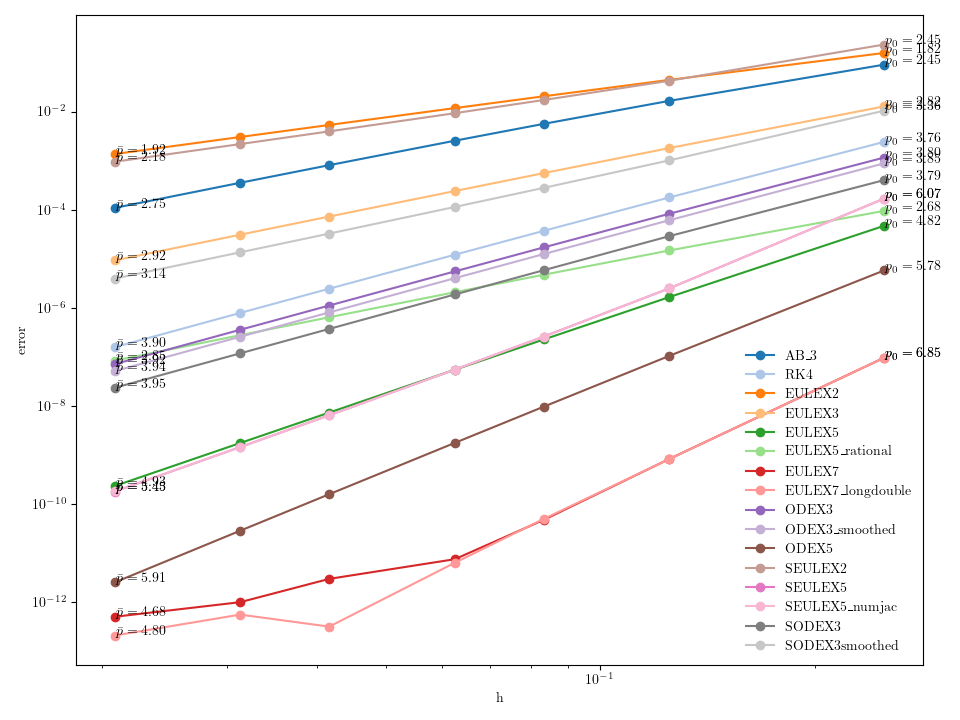
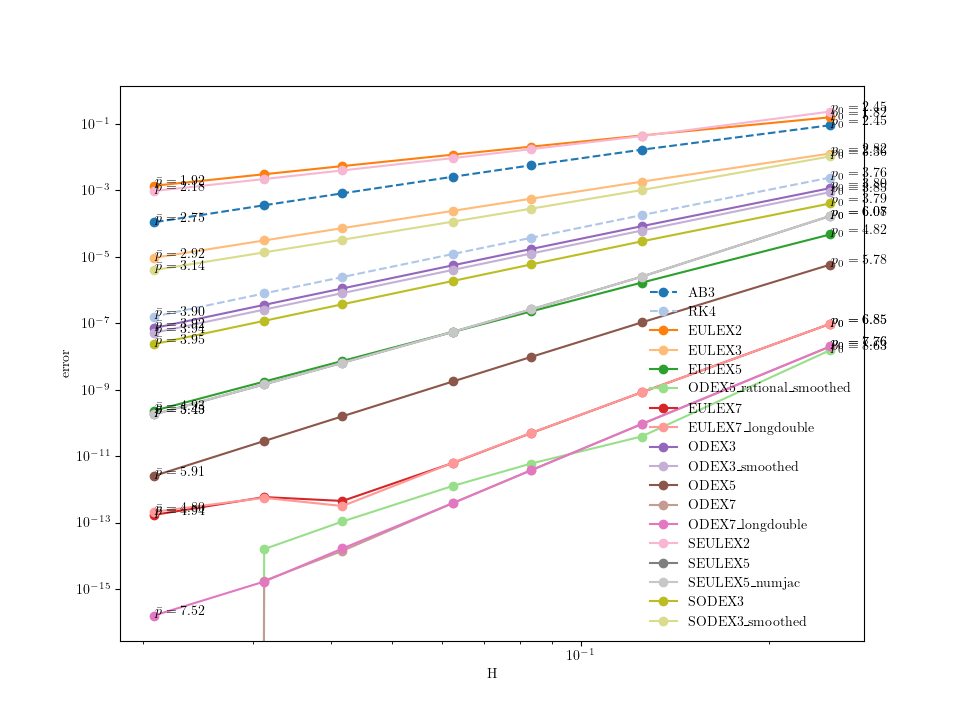
replaced x_n completely with ddelta_x_n

diff --git a/src/solvers/Extrapolation_Scheme.py b/src/solvers/Extrapolation_Scheme.py
@@ -319,7 +319,7 @@ class ExtrapolationSolver(ABC):
             )
 
         return (
-            x_pred,
+            x_curr + T_table_k[k_curr],
             state,
             k_curr,
             step_info,
@@ -505,11 +505,9 @@ class EulerExtrapolation(ExtrapolationSolver):
         delta_t = (t_max - t0) / n_steps
 
         ddelta_x = np.zeros_like(x0)
-        x_n = x0
         t_n = t0
         for _ in range(n_steps):
-            ddelta_x += delta_t * self.ode_fun(t_n, x_n)
-            x_n = x0 + ddelta_x
+            ddelta_x += delta_t * self.ode_fun(t_n, x0 + ddelta_x)
             t_n += delta_t
         return ddelta_x, False
 
@@ -566,18 +564,15 @@ class EulerExtrapolationMass(ExtrapolationSolver):
         """Forward Euler scheme"""
         delta_t = (t_max - t0) / n_steps
 
-        x_n = x0
         t_n = t0
         ddelta_x = np.zeros_like(x0)
         for _ in range(n_steps):
             ddelta_x += lu_solve(
                 self.lu_and_piv_mass,
-                delta_t * self.ode_fun(t_n, x_n),
+                delta_t * self.ode_fun(t_n, x0 + ddelta_x),
                 overwrite_b=True,
                 check_finite=False,
             )
-
-            x_n = x0 + ddelta_x
             t_n += delta_t
         return ddelta_x, False
 
@@ -633,17 +628,18 @@ class ModMidpointExtrapolation(ExtrapolationSolver):
         ddelta_x_prev = np.zeros_like(x0)
         ddelta_x_n = delta_t * self.ode_fun(t0, x0)  # start with an Euler step
         t_n = t0 + delta_t
-        x_n = x0 + ddelta_x_n
         for _ in range(1, n_steps):
-            ddelta_x_n = ddelta_x_prev + 2 * delta_t * self.ode_fun(t_n, x_n)
-            ddelta_x_prev = (
-                x_n - x0
-            )  # this is still stored in x_n, so no additioial swapping variable is required
-            x_n = x0 + ddelta_x_n
+            swaptemp_ddelta_x_n = ddelta_x_n.copy()
+            ddelta_x_n = ddelta_x_prev + 2 * delta_t * self.ode_fun(
+                t_n, x0 + ddelta_x_n
+            )
+            ddelta_x_prev = swaptemp_ddelta_x_n
             t_n += delta_t
         if self.use_smoothing:
             ddelta_x_n = 0.5 * (
-                ddelta_x_n + ddelta_x_prev + delta_t * self.ode_fun(t_n, x_n)
+                ddelta_x_n
+                + ddelta_x_prev
+                + delta_t * self.ode_fun(t_n, x0 + ddelta_x_n)
             )
         return ddelta_x_n, False
 
@@ -710,25 +706,23 @@ class ModMidpointExtrapolationMass(ExtrapolationSolver):
         delta_t = (t_max - t0) / n_steps
 
         ddelta_x_prev = np.zeros_like(x0)
-        ddelta_x_n = lu_solve(
+        ddelta_x_n: NDArray[np.floating] = lu_solve(
             self.lu_and_piv_mass,
-            delta_t * self.ode_fun(x0),
+            delta_t * self.ode_fun(t0, x0),
             overwrite_b=True,
             check_finite=False,
         )  # start with an Euler step
         t_n = t0 + delta_t
-        x_n = x0 + ddelta_x_n
         for _ in range(1, n_steps):
+            temp_ddelta_x_n = ddelta_x_n
             ddelta_x_n = ddelta_x_prev + lu_solve(
                 self.lu_and_piv_mass,
-                2 * delta_t * self.ode_fun(t_n, x_n),
+                2 * delta_t * self.ode_fun(t_n, x0 + ddelta_x_n),
                 overwrite_b=True,
                 check_finite=False,
             )
-            ddelta_x_prev = (
-                x_n - x0
-            )  # this is still stored in x_n, so no additioial swapping variable is required
-            x_n = x0 + ddelta_x_n
+            ddelta_x_prev = temp_ddelta_x_n
+
             t_n += delta_t
         if self.use_smoothing:
             ddelta_x_n = 0.5 * (
@@ -736,7 +730,7 @@ class ModMidpointExtrapolationMass(ExtrapolationSolver):
                 + ddelta_x_prev
                 + lu_solve(
                     self.lu_and_piv_mass,
-                    delta_t * self.ode_fun(t_n, x_n),
+                    delta_t * self.ode_fun(t_n, x0 + ddelta_x_n),
                     overwrite_b=True,
                     check_finite=False,
                 )
@@ -902,17 +896,15 @@ class LimplicitEulerExtrapolation(ExtrapolationSolver):
         )
 
         ddelta_x = np.zeros_like(x0)
-        x_n = x0
         t_n = t0
         for n in range(n_steps):
             rhs = delta_t * self.ode_fun(
-                t_n + delta_t, x_n
+                t_n + delta_t, x0 + ddelta_x
             )  # NOTE: t_n + delta_t modification for non-autonomous ODEs
             ddelta_x += lu_solve(
                 lu_and_piv, rhs, overwrite_b=n != 1, check_finite=False
             )  # NOTE: i can not overwrite b for n==1 because of the convergence check
 
-            x_n = x0 + ddelta_x
             t_n += delta_t
 
             if n == 0:
@@ -1028,15 +1020,16 @@ class LimplicitMidpointExtrapolation(ExtrapolationSolver):
         delta_x_0: NDArray[np.floating] = ddelta_x_n.copy()
 
         t_n = t0 + delta_t
-        x_n = x0 + ddelta_x_n
         # continue with linearly implicit midpoint
         for n in range(1, n_steps):
-            rhs = 2 * (delta_t * self.ode_fun(t_n, x_n) - self.mass_matrix @ delta_x)
+            rhs = 2 * (
+                delta_t * self.ode_fun(t_n, x0 + ddelta_x_n)
+                - self.mass_matrix @ delta_x
+            )
             delta_x += lu_solve(
                 lu_and_piv, rhs, overwrite_b=n != 1, check_finite=False
             )  # NOTE: i can not overwrite b here because of the convergence check
             ddelta_x_n += delta_x
-            x_n = x0 + ddelta_x_n
 
             t_n += delta_t
 
@@ -1048,7 +1041,10 @@ class LimplicitMidpointExtrapolation(ExtrapolationSolver):
         if (
             self.use_smoothing
         ):  # Gragg's smoothing, requires one additional step before which we save the previous value of x
-            rhs = 2 * (delta_t * self.ode_fun(t_n, x_n) - self.mass_matrix @ delta_x)
+            rhs = 2 * (
+                delta_t * self.ode_fun(t_n, x0 + ddelta_x_n)
+                - self.mass_matrix @ delta_x
+            )
             solve_final = lu_solve(
                 lu_and_piv, rhs, overwrite_b=True, check_finite=False
             )  # NOTE: this is not delta_x_final (delta_x_final = delta_x + solve_final)

diff --git a/problems/convergence.py b/problems/convergence.py
@@ -37,7 +37,7 @@ norm = norm_hairer
 N_list = 4 * np.array(
     [
         2 ** (k // 2) if k == 1 or k % 2 == 0 else 1.5 * 2 ** (k // 2)
-        for k in range(1, 10)
+        for k in range(1, 8)
     ]
 )
 k_list = np.array(range(5))
@@ -49,7 +49,7 @@ for n_steps in N_list:
     time, result, solve_info = AB3(x_dot, x0, t_max, h=t_max / n_steps)
     errors.append(norm(result[-1] - x_analytic(time[-1])))
     h_mins.append(t_max / n_steps)
-conv_data["AB_3"] = np.array(errors), np.array(h_mins)
+conv_data["AB3"] = np.array(errors), np.array(h_mins)
 
 errors = list()
 h_mins = list()
@@ -319,7 +319,14 @@ ax.set_xlabel("H")
 ax.set_ylabel("error")
 
 for i, (scheme_name, (errors, _)) in enumerate(conv_data.items()):
-    ax.plot(t_max/N_list, errors, label=scheme_name, color=cmap(i), marker='o')
+    ax.plot(
+        t_max / N_list,
+        errors,
+        label=scheme_name,
+        color=cmap(i),
+        marker="o",
+        linestyle="--" if scheme_name in ["AB3", "RK4"] else "-",
+    )
     rate = np.log(errors[1:]/errors[:-1])/np.log(N_list[:-1]/N_list[1:])
     ax.text(t_max / N_list[-1], errors[-1], rf"$\bar{{p}} = {np.mean(rate):.2f}$")
     ax.text(t_max / N_list[0], errors[0], f"$p_0 = {rate[0]:.2f}$")
@@ -327,7 +334,7 @@ for i, (scheme_name, (errors, _)) in enumerate(conv_data.items()):
 
 plt.legend(frameon=False)
 plt.tight_layout()
-# plt.savefig("convergence.png")
+plt.savefig("convergence.png")
 plt.show()
 
 # plot over minimum h
@@ -339,7 +346,13 @@ ax.set_xlabel(r"$h_\mathrm{min}$")
 ax.set_ylabel("error")
 
 for i, (scheme_name, (errors, h_min)) in enumerate(conv_data.items()):
-    ax.plot(h_min, errors, label=scheme_name, color=cmap(i), marker="o")
+    ax.plot(
+        h_min,
+        errors,
+        label=scheme_name,
+        color=cmap(i),
+        marker="o",
+    )
     rate = np.log(errors[1:] / errors[:-1]) / np.log(h_min[1:] / h_min[:-1])
     ax.text(h_min[-1], errors[-1], rf"$\bar{{p}} = {np.mean(rate):.2f}$")
     ax.text(h_min[0], errors[0], f"$p_0 = {rate[0]:.2f}$")